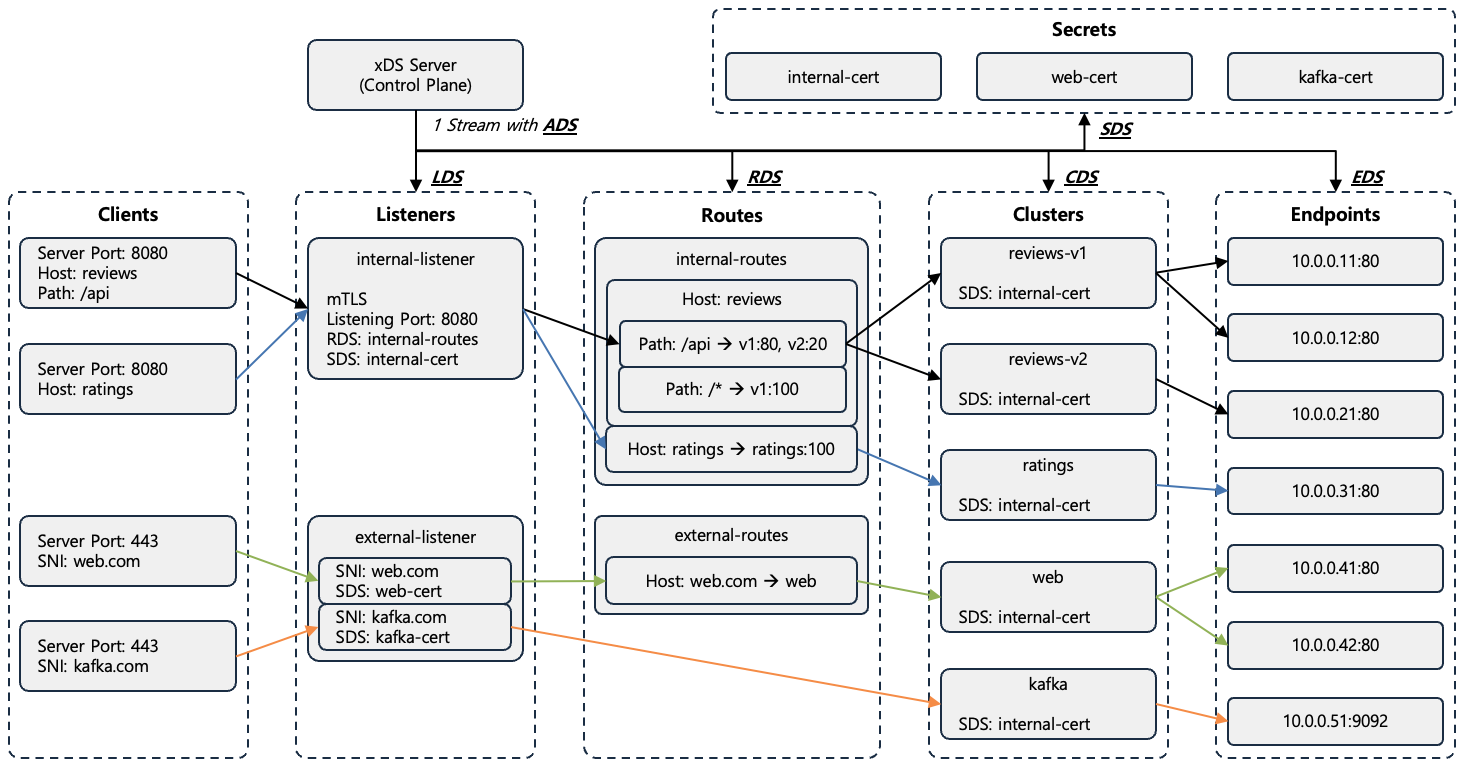
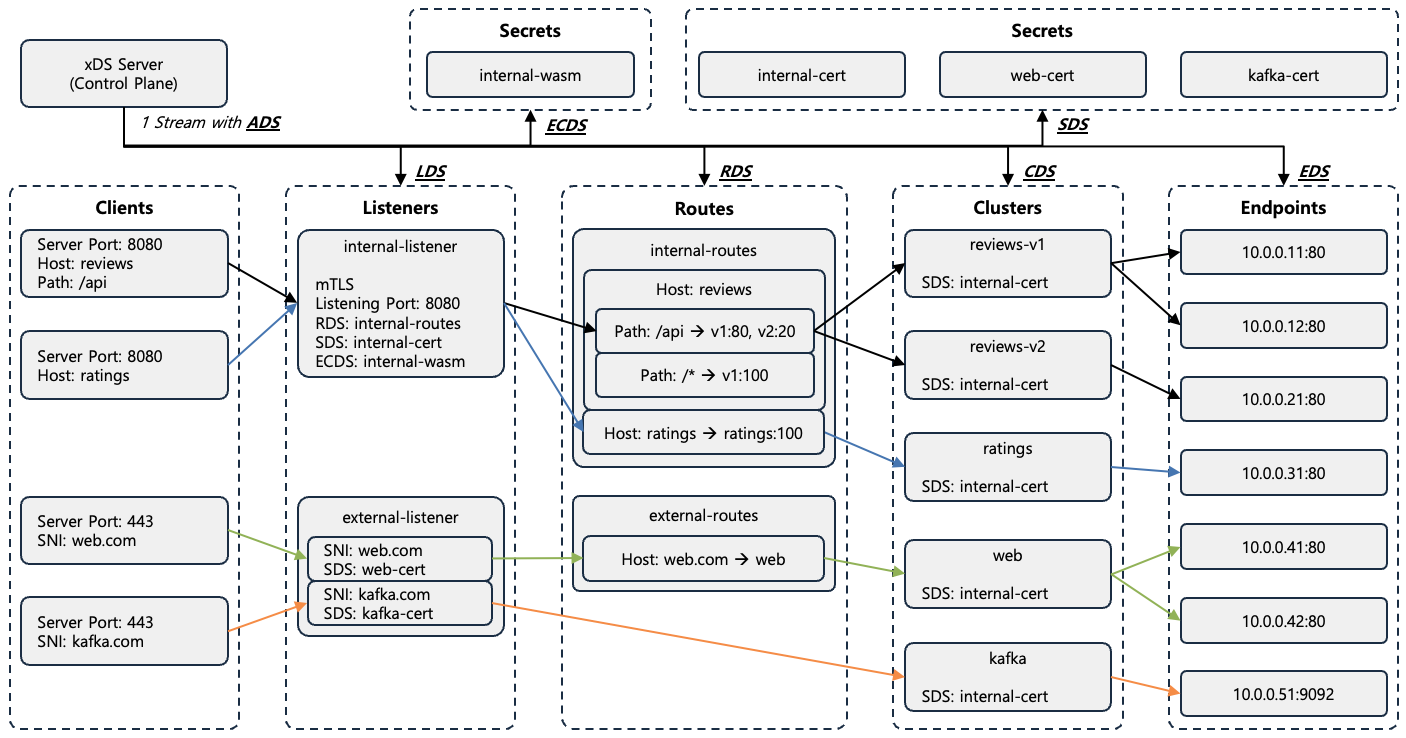
update

diff --git a/content/docs/theory-analysis/envoy-configuration-xds/index.md b/content/docs/theory-analysis/envoy-configuration-xds/index.md
@@ -26,8 +26,8 @@ Envoy Configuration은 Root Configration 역할을 수행하는 **Bootstrap Conf
 * **CDS (Cluster Discovery Service)** : Cluster 설정을 동적으로 전달한다.
 * **EDS (Endpoint Discovery Service)** : Endpoint 설정을 동적으로 전달한다.
 * **SDS (Secret Discovery Service)** : Secret 설정을 동적으로 전달한다.
-* **ECDS (Extension Config Discovery Service)** : Listener에 이름으로만 참조해 둔 Filter(Extension)의 실제 설정을 별도 Resource로 전달한다. Listener 전체를 다시 받지 않고 Filter 설정만 독립적으로 갱신할 수 있다.
-* **ADS (Aggregated Discovery Service)** : 새로운 설정을 전달하는 API가 아니라, LDS/RDS/CDS/EDS/SDS/ECDS를 별도의 연결 대신 하나의 gRPC Stream으로 묶어 전달하는 전송 메커니즘이다. 이를 통해 Management Server가 CDS → EDS → LDS → RDS와 같이 의존성에 맞는 적용 순서를 보장할 수 있으며, 설정 갱신 과정에서 발생할 수 있는 Traffic 유실을 방지할 수 있다.
+* **ECDS (Extension Config Discovery Service)** : HTTP Filter, Listener Filter 등 Envoy의 다양한 확장(Extension) 지점에 범용적으로 쓰이는 동적 설정 기법이다. Listener나 Route 안에 확장 설정을 통째로 넣는 대신 "이 설정은 ECDS에서 가져와"라는 참조만 남겨두면, Envoy가 필요할 때 해당 확장의 설정만 별도로 받아온다. 따라서 확장 하나의 설정을 바꾸고 싶을 때 Listener나 Route 전체를 다시 받을 필요 없이, 해당 설정만 독립적으로 갱신할 수 있다.
+* **ADS (Aggregated Discovery Service)** : 새로운 설정을 전달하는 API가 아니라, LDS/RDS/CDS/EDS/SDS/ECDS를 별도의 연결 대신 하나의 gRPC Stream으로 묶어 전달하는 전송 기법이다. 이를 통해 Management Server가 CDS → EDS → LDS → RDS와 같이 의존성에 맞는 적용 순서를 보장할 수 있으며, 설정 갱신 과정에서 발생할 수 있는 Traffic 유실을 방지할 수 있다.
 
 #### 1.1.1. LDS (Listener Discovery Service)
 
@@ -61,7 +61,7 @@ resources:
           route_config_name: internal-routes   # RDS: Route table to read (L7 only)
           config_source: { ads: {} }
         http_filters:
-        - name: internal-wasm-filter           # ECDS: config fetched separately BY NAME
+        - name: internal-wasm           # ECDS: config fetched separately BY NAME
           config_discovery:
             config_source: { ads: {} }
             type_urls:
@@ -122,7 +122,7 @@ resources:
         cluster: kafka                         # straight to cluster, no Route table
 ```
 
-[Config 1]은 [Figure 1]의 Listener 부분에 해당하는 LDS 설정 예시를 나타내고 있다. `internal-listener`는 `8080` Port에서 mTLS로 Traffic을 수신하며, `internal-cert` Secret으로 자신을 증명하고 `internal-ca` Secret으로 Client를 검증한 뒤 요청을 `internal-routes` Route Table로 넘긴다. HTTP Filter Chain에는 Wasm Filter가 `internal-wasm-filter`라는 이름의 `config_discovery` 참조로만 들어 있으며, 실제 Filter 설정은 ECDS를 통해 별도로 전달받는다 (1.1.6에서 다룬다). `external-listener`는 `443` Port에서 TLS Inspector로 SNI를 확인하여 Filter Chain을 선택한다. `web.com` Chain은 `web-cert` Secret으로 TLS를 종료한 뒤 `external-routes` Route Table로 요청을 넘기고, `kafka.com` Chain은 `kafka-cert` Secret으로 TLS를 종료한 뒤 Route Table을 거치지 않고 TCP Proxy를 통해 `kafka` Cluster로 바로 전달한다.
+[Config 1]은 [Figure 1]의 Listener 부분에 해당하는 LDS 설정 예시를 나타내고 있다. `internal-listener`는 `8080` Port에서 mTLS로 Traffic을 수신하며, `internal-cert` Secret으로 자신을 증명하고 `internal-ca` Secret으로 Client를 검증한 뒤 요청을 `internal-routes` Route Table로 넘긴다. HTTP Filter Chain에는 Wasm Filter가 `internal-wasm`라는 이름의 `config_discovery` 참조로만 들어 있으며, 실제 Filter 설정은 ECDS를 통해 별도로 전달받는다 (1.1.6에서 다룬다). `external-listener`는 `443` Port에서 TLS Inspector로 SNI를 확인하여 Filter Chain을 선택한다. `web.com` Chain은 `web-cert` Secret으로 TLS를 종료한 뒤 `external-routes` Route Table로 요청을 넘기고, `kafka.com` Chain은 `kafka-cert` Secret으로 TLS를 종료한 뒤 Route Table을 거치지 않고 TCP Proxy를 통해 `kafka` Cluster로 바로 전달한다.
 
 #### 1.1.2. RDS (Route Discovery Service)
 
@@ -319,7 +319,7 @@ resources:
 
 # ── Extension Config referenced by internal-listener (BY NAME) ────────
 - "@type": type.googleapis.com/envoy.config.core.v3.TypedExtensionConfig
-  name: internal-wasm-filter                   # must match config_discovery name
+  name: internal-wasm                   # must match config_discovery name
   typed_config:
     "@type": type.googleapis.com/envoy.extensions.filters.http.wasm.v3.Wasm
     config:
@@ -329,7 +329,7 @@ resources:
           local: { filename: "/etc/envoy/filter.wasm" }
 ```
 
-[Config 6]은 [Config 1]의 `internal-listener`가 `config_discovery`로 참조하고 있는 `internal-wasm-filter`의 실제 설정을 전달하는 ECDS 예시를 나타내고 있다. Listener의 HTTP Filter 자리에는 설정 본문 대신 참조(이름과 type_url)만 두고, 실제 Filter 설정은 같은 이름의 TypedExtensionConfig Resource로 별도 전달받는다.
+[Config 6]은 [Config 1]의 `internal-listener`가 `config_discovery`로 참조하고 있는 `internal-wasm`의 실제 설정을 전달하는 ECDS 예시를 나타내고 있다. Listener의 HTTP Filter 자리에는 설정 본문 대신 참조(이름과 type_url)만 두고, 실제 Filter 설정은 같은 이름의 TypedExtensionConfig Resource로 별도 전달받는다.
 
 Filter 설정이 Listener 안에 Inline으로 들어 있으면 Filter 설정 변경도 Listener 변경이 된다. Envoy는 동작 중인 Listener의 설정을 직접 변경하지 못하므로, 변경된 설정으로 새 Listener를 만들어 교체한다. 이 과정에서 기존 Listener가 처리하던 연결들은 Drain을 거쳐 일정 시간 안에 모두 끊어진다. 즉 Filter 설정 한 줄을 바꿔도 해당 Port의 Long-lived 연결이 끊길 수 있다.
 
@@ -361,7 +361,7 @@ DiscoveryRequest:
   resource_names: [reviews-v1, reviews-v2, ratings, web, kafka]   # names came from CDS
 # ... the same pattern repeats — LDS (wildcard) → RDS / SDS / ECDS (by name):
 #     RDS: [internal-routes, external-routes]  ·  SDS: [internal-cert, internal-ca, web-cert, kafka-cert]
-#     ECDS: [internal-wasm-filter]
+#     ECDS: [internal-wasm]
  
 # ── 4 · NACK: reject a broken update, keep the last good version ──────
 DiscoveryRequest:
